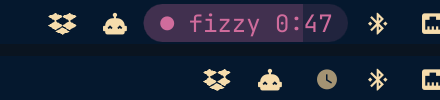
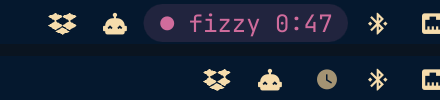
Drop the hour fill from the pill
It split the pill into two tones straight through the project name, which
reads as a half-painted background rather than as progress. The elapsed
time is already spelled out in digits an inch to the right, so the fill
was restating what the pill already says at the cost of the pill's
legibility. Two rounds of fixing its geometry were fixing the wrong
thing.

Takes hourFraction and its tests out with it, and retakes the pill
screenshot, which showed the fill at 78%.

Changed region(s): [[0.325, 0.03, 0.7091, 0.42]]

diff --git a/Panel.qml b/Panel.qml
@@ -8,9 +8,9 @@ import qs.Ui
 import "Model.js" as Model
 
 // The bar pill and the day panel behind it. The pill is not a launcher for
-// the timer, it *is* the timer: it carries the project, the elapsed time,
-// and a fill that creeps across as the current hour runs out, so the common
-// case — "what am I on and how long" — costs a glance and no clicks.
+// the timer, it *is* the timer: it carries the project and the running clock
+// in that project's color, so the common case — "what am I on and how long"
+// — costs a glance and no clicks.
 Panel {
   id: root
   moduleName: "pb.punch"
@@ -28,7 +28,6 @@ Panel {
   readonly property bool tracking: live !== null
   readonly property string projectName: live ? String(live.project) : ""
   readonly property int elapsed: punch ? punch.elapsed : 0
-  readonly property real hourFill: tracking ? Model.hourFraction(elapsed) : 0
 
   // Ui/Panel is the popup base, not the widget base, so the bar geometry
   // every layout branch reads has to come off the host directly.
@@ -189,10 +188,12 @@ Panel {
       if (step !== 0) root.punch.cycle(step > 0 ? -1 : 1)
     }
 
-    // Behind the label while running: a tinted bed in the project's color,
-    // with a fill that crosses it once per hour of tracked time.
+    // Behind the label while running: one flat tint in the project's color.
+    // A progress fill lived here and had to go: it split the pill into two
+    // tones straight through the project name, which reads as a half-painted
+    // background rather than as progress, and the elapsed time is already
+    // spelled out in digits an inch to the right.
     Rectangle {
-      id: bed
       z: -1
       anchors.centerIn: parent
       width: root.vertical ? Style.bar.iconSlot - Style.space(4) : parent.width - Style.space(2)
@@ -200,28 +201,6 @@ Panel {
       radius: Math.max(Style.cornerRadius, height / 2)
       visible: root.tracking
       color: Util.alpha(root.barActiveColor, 0.14)
-
-      // The fill is a full-size copy of the pill revealed through a square
-      // window, not a rounded rect of its own. A rounded rect sized to the
-      // fill capped its right edge into a blob instead of a progress edge,
-      // and QML's clip is rectangular, so clipping the bed could not hold
-      // that shape to the pill's silhouette either. Masking this way keeps
-      // the left cap exactly the pill's and the leading edge exactly
-      // vertical, at every width.
-      Item {
-        height: parent.height
-        width: Math.round(parent.width * root.hourFill)
-        clip: true
-
-        Rectangle {
-          width: bed.width
-          height: bed.height
-          radius: bed.radius
-          color: Util.alpha(root.barActiveColor, 0.18)
-        }
-
-        Behavior on width { NumberAnimation { duration: 400; easing.type: Easing.OutCubic } }
-      }
     }
 
     // Vertical bars have no room for a label, so the glyph carries it and

diff --git a/Model.js b/Model.js
@@ -75,13 +75,6 @@ function humanDuration(seconds) {
   return s + "s"
 }
 
-// How far into the current hour this entry has run. Drives the pill's fill,
-// so a glance says "nearly another hour on the clock" without reading digits.
-function hourFraction(seconds) {
-  var s = Math.max(0, Math.floor(seconds))
-  return (s % 3600) / 3600
-}
-
 // Rounding is applied when an entry is stopped, never to the live timer:
 // what you see running is real time, what lands in the log is billable time.
 function roundedEnd(start, end, roundToMinutes) {
@@ -384,7 +377,6 @@ if (typeof module !== "undefined") {
     clockDuration: clockDuration,
     preciseDuration: preciseDuration,
     humanDuration: humanDuration,
-    hourFraction: hourFraction,
     roundedEnd: roundedEnd,
     hashString: hashString,
     newId: newId,

diff --git a/test/model-test.js b/test/model-test.js
@@ -24,8 +24,6 @@ check("preciseDuration", M.preciseDuration(3600 + 24 * 60 + 9), "1:24:09")
 check("humanDuration hours", M.humanDuration(5400), "1h 30m")
 check("humanDuration exact hour", M.humanDuration(3600), "1h")
 check("humanDuration minutes", M.humanDuration(120), "2m")
-check("hourFraction half", M.hourFraction(1800), 0.5)
-check("hourFraction wraps", M.hourFraction(3600 + 1800), 0.5)
 
 // Rounding is off by default and always rounds up when on.
 check("roundedEnd off", M.roundedEnd(0, 61, 0), 61)

diff --git a/README.md b/README.md
@@ -4,9 +4,9 @@ Time tracking for [Omarchy](https://omarchy.org), built for the case that
 actually happens forty times a day: you switch what you are working on and you
 do not want to think about the tracker.
 
-The bar pill is not a launcher for a timer. It **is** the timer — project,
-elapsed time, and a fill that creeps across as the current hour of tracked time
-runs out, so "what am I on and for how long" costs a glance. Starting the clock
+The bar pill is not a launcher for a timer. It **is** the timer — the project
+and the running clock, in that project's color, so "what am I on and for how
+long" costs a glance and no clicks. Starting the clock
 on the thing you were doing an hour ago is one keypress; starting it on
 something new is a keypress and a few letters.
 
@@ -45,8 +45,7 @@ o.bind("SUPER + ALT + T", "Punch: switch project", "punch pick")
 ## The pill
 
 Stopped, it is a quiet glyph. Running, it becomes a pill in the project's color
-carrying the name and the elapsed time, with a second fill creeping across once
-per hour of tracked time.
+carrying the name and the elapsed time.
 
 | Interaction | What it does |
 |---|---|
